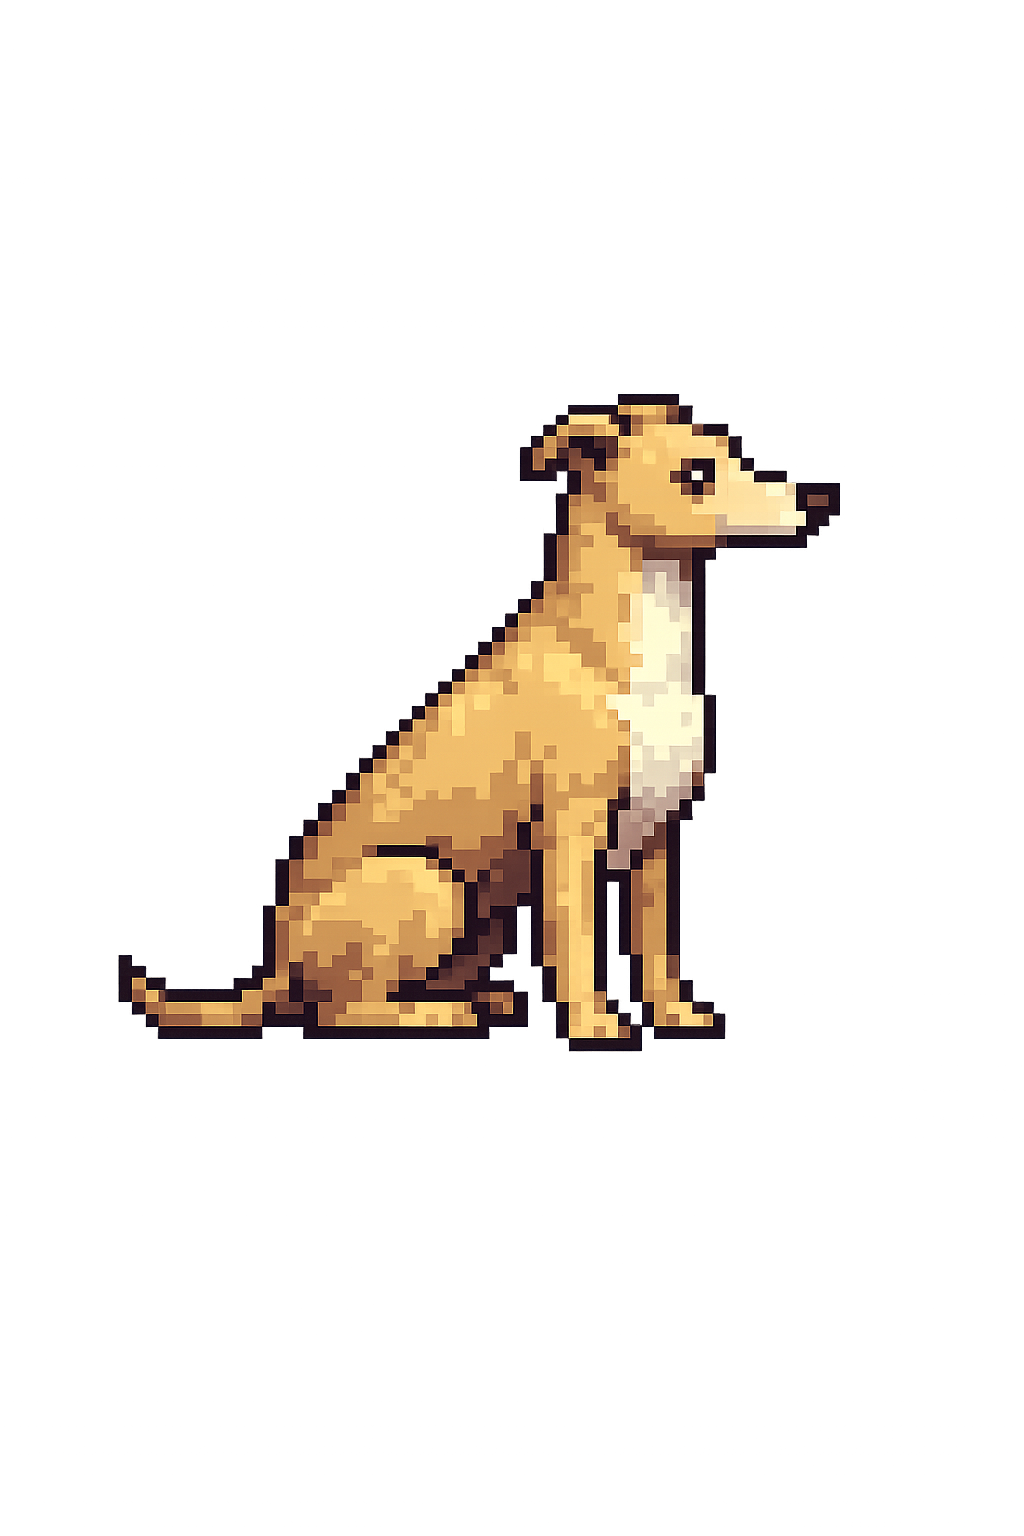
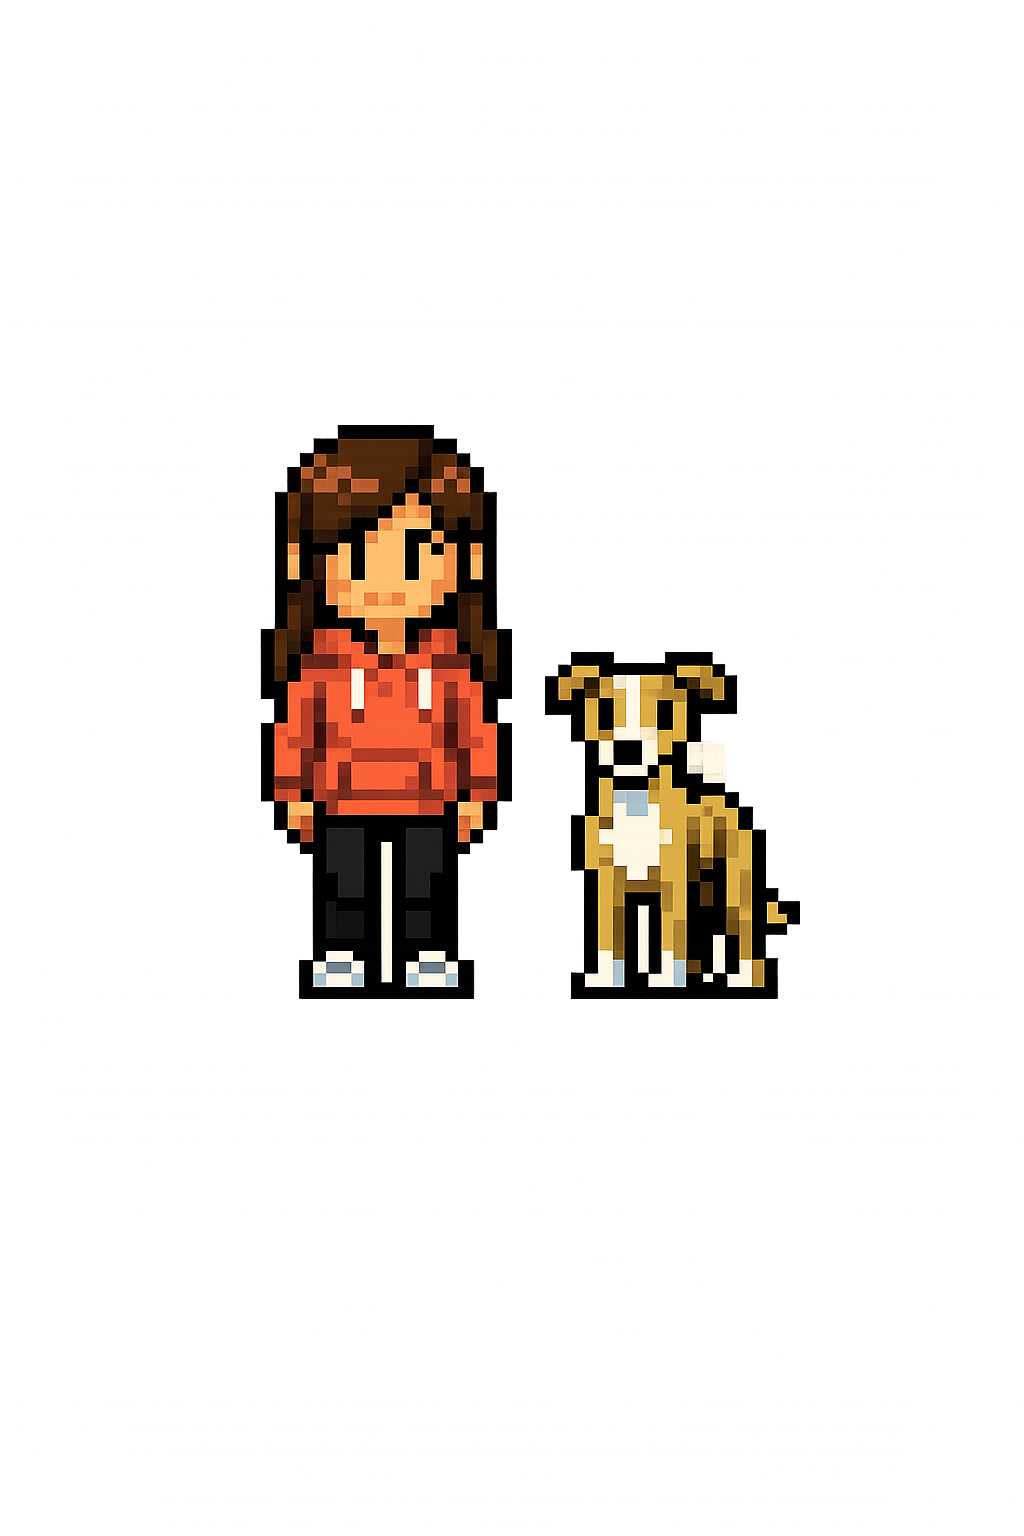
pawmap: bust assets v6, update llull portrait
Made-with: Cursor

Changed region(s): [[0.0938, 0.25, 0.8438, 0.6875]]

diff --git a/projects/pawmap/index.html b/projects/pawmap/index.html
@@ -175,6 +175,35 @@
     }
     #game-canvas:active { cursor: grabbing; }
 
+    /* Minimapa completo solo en escritorio: posición fija en la esquina del área de juego */
+    .minimap-wrap {
+      display: none;
+      position: absolute;
+      right: max(12px, env(safe-area-inset-right));
+      bottom: max(12px, env(safe-area-inset-bottom));
+      z-index: 8;
+      width: 144px;
+      height: 144px;
+      border: 2px solid rgba(253, 230, 138, 0.55);
+      border-radius: 8px;
+      background: rgba(10, 10, 26, 0.88);
+      box-shadow: 0 4px 18px rgba(0, 0, 0, 0.45);
+      overflow: hidden;
+      pointer-events: none;
+    }
+    .minimap-wrap canvas {
+      display: block;
+      width: 100%;
+      height: 100%;
+      image-rendering: pixelated;
+      image-rendering: crisp-edges;
+    }
+    @media (min-width: 900px) {
+      .minimap-wrap {
+        display: block;
+      }
+    }
+
     .near-prompt {
       position: absolute;
       left: 50%;
@@ -521,7 +550,6 @@
   <div class="screen-map hidden" id="screen-map">
     <div class="hud-bar" role="banner">
       <span>PAWMAP · ESPAÑA</span>
-      <span>CAMINA HACIA LA LUZ</span>
     </div>
     <div class="map-stage-wrap" id="map-stage-wrap">
       <div class="asset-hint" id="asset-hint" hidden></div>
@@ -537,6 +565,9 @@
         <span class="dpad-spacer"></span>
         <button type="button" data-dir="down" aria-label="Abajo">▼</button>
         <span class="dpad-spacer"></span>
+      </div>
+      <div class="minimap-wrap" id="minimap-wrap">
+        <canvas id="minimap-canvas" width="144" height="144" aria-label="Minimapa: posición en la península"></canvas>
       </div>
     </div>
 
@@ -611,13 +642,15 @@
   'use strict';
 
   var WORLD = 840;
-  /* Fallback if sprite not loaded; real frames = floor(sheetWidth/3) x floor(sheetHeight/4) */
+  /* Fallback si no hay sprite; hoja típica 1024×1536 → 3×4 celdas (341×384, última col. 342px) */
   var FRAME_W = 341;
-  var FRAME_H = 307;
+  var FRAME_H = 384;
   var COLS = 3;
   var ROWS = 4;
-  var DRAW_W = 35;
-  var DRAW_H = 40;
+  /* Sube el número cuando sustituyas assets en projects/pawmap/assets/ (mapa, sprite, pin, nubes, retrato). */
+  var PAWMAP_ASSETS_BUST = '6';
+  var DRAW_W = 70;
+  var DRAW_H = 80;
   var PROX = 40;
   var MOVE_SPEED = 115;
 
@@ -637,6 +670,10 @@
   var canvas = document.getElementById('game-canvas');
   var ctx = canvas.getContext('2d', { alpha: false });
   var mapWrap = document.getElementById('map-stage-wrap');
+  var minimapCanvas = document.getElementById('minimap-canvas');
+  var minimapCtx = minimapCanvas ? minimapCanvas.getContext('2d') : null;
+  var minimapMql = window.matchMedia('(min-width: 900px)');
+  var MINIMAP_SIZE = 144;
   var assetHint = document.getElementById('asset-hint');
   var nearPrompt = document.getElementById('near-prompt');
   var sheet = document.getElementById('info-sheet');
@@ -652,6 +689,8 @@
   var imgSpriteProcessed = null;
   var imgPinProcessed = null;
   var imgClouds = null;
+  /* Un solo frame copiado 1:1 desde la hoja; luego se escala. Evita mezcla con el frame vecino al dibujar. */
+  var spriteFrameScratch = null;
   var assetsMissing = [];
 
   function tryLoad(srcs, onOk, onFail) {
@@ -698,6 +737,24 @@
     return c;
   }
 
+  function keyNearWhiteTransparent(canvas) {
+    var t = canvas.getContext('2d');
+    try {
+      var px = t.getImageData(0, 0, canvas.width, canvas.height);
+      var d = px.data;
+      for (var i = 0; i < d.length; i += 4) {
+        var r = d[i];
+        var g = d[i + 1];
+        var b = d[i + 2];
+        if (r > 248 && g > 248 && b > 248) d[i + 3] = 0;
+      }
+      t.putImageData(px, 0, 0);
+    } catch (err) {
+      /* file:// u otro: sin clave */
+    }
+    return canvas;
+  }
+
   function imageUsesAlphaChannel(img) {
     var c = document.createElement('canvas');
     c.width = img.width;
@@ -718,7 +775,7 @@
 
   function processSpriteSheet(img) {
     if (imageUsesAlphaChannel(img)) return img;
-    return removeBlackBackground(img);
+    return keyNearWhiteTransparent(removeBlackBackground(img));
   }
 
   function processPin(img) {
@@ -882,19 +939,20 @@
       if (pending <= 0) cb();
     };
 
-    tryLoad(['assets/spain-map.png', 'assets/spain-map.jpg'], function (im) {
+    var v = '?v=' + PAWMAP_ASSETS_BUST;
+    tryLoad(['assets/spain-map.png' + v, 'assets/spain-map.jpg' + v], function (im) {
       imgMap = im;
       refreshSeaTextureFromMap(im);
       done();
     }, function () { assetsMissing.push('mapa (spain-map.png o .jpg)'); done(); });
 
-    tryLoad(['assets/sprite.png'], function (im) { imgSpriteProcessed = processSpriteSheet(im); done(); }, function () { assetsMissing.push('sprite.png'); done(); });
+    tryLoad(['assets/sprite.png' + v], function (im) { imgSpriteProcessed = processSpriteSheet(im); done(); }, function () { assetsMissing.push('sprite.png'); done(); });
 
-    tryLoad(['assets/paw-pin.png'], function (im) { imgPinProcessed = processPin(im); done(); }, function () { assetsMissing.push('paw-pin.png'); done(); });
+    tryLoad(['assets/paw-pin.png' + v], function (im) { imgPinProcessed = processPin(im); done(); }, function () { assetsMissing.push('paw-pin.png'); done(); });
 
-    tryLoad(['assets/clouds.png'], function (im) { imgClouds = im; done(); }, function () { assetsMissing.push('clouds.png'); done(); });
+    tryLoad(['assets/clouds.png' + v], function (im) { imgClouds = im; done(); }, function () { assetsMissing.push('clouds.png'); done(); });
 
-    tryLoad(['assets/llull-portrait.png'], function (im) {
+    tryLoad(['assets/llull-portrait.png' + v], function (im) {
       var wrap = document.getElementById('title-portrait-wrap');
       var ph = document.getElementById('title-portrait-placeholder');
       if (wrap && ph) {
@@ -1074,34 +1132,144 @@
 
   function spriteFrameDims() {
     var src = imgSpriteProcessed;
-    if (!src) return { fw: FRAME_W, fh: FRAME_H };
+    if (!src) return { fw: FRAME_W, fh: FRAME_H, sheetW: 0, sheetH: 0 };
     var w = (typeof src.naturalWidth === 'number' && src.naturalWidth > 0) ? src.naturalWidth : src.width;
     var h = (typeof src.naturalHeight === 'number' && src.naturalHeight > 0) ? src.naturalHeight : src.height;
-    if (!w || !h) return { fw: FRAME_W, fh: FRAME_H };
-    return { fw: Math.floor(w / COLS), fh: Math.floor(h / ROWS) };
+    if (!w || !h) return { fw: FRAME_W, fh: FRAME_H, sheetW: 0, sheetH: 0 };
+    return {
+      fw: Math.floor(w / COLS),
+      fh: Math.floor(h / ROWS),
+      sheetW: w,
+      sheetH: h
+    };
+  }
+
+  function spriteFrameSourceRect(col, row, dims) {
+    var fw = dims.fw;
+    var fh = dims.fh;
+    var w = dims.sheetW;
+    var h = dims.sheetH;
+    var sx = col * fw;
+    var sy = row * fh;
+    var sw = col === COLS - 1 ? w - sx : fw;
+    var sh = row === ROWS - 1 ? h - sy : fh;
+    /* Enteros estrictos: evita límites ambiguos en drawImage desde atlas. */
+    return {
+      sx: sx | 0,
+      sy: sy | 0,
+      sw: sw | 0,
+      sh: sh | 0
+    };
+  }
+
+  function syncMinimapAria() {
+    var wrap = document.getElementById('minimap-wrap');
+    if (!wrap) return;
+    wrap.setAttribute('aria-hidden', minimapMql.matches ? 'false' : 'true');
+  }
+  minimapMql.addEventListener('change', syncMinimapAria);
+  syncMinimapAria();
+
+  function drawMinimap() {
+    if (!minimapCanvas || !minimapCtx || !minimapMql.matches) return;
+    var sz = MINIMAP_SIZE;
+    var dpr = Math.min(window.devicePixelRatio || 1, 2);
+    var wpx = Math.floor(sz * dpr);
+    var hpx = Math.floor(sz * dpr);
+    if (minimapCanvas.width !== wpx || minimapCanvas.height !== hpx) {
+      minimapCanvas.width = wpx;
+      minimapCanvas.height = hpx;
+    }
+    var m = minimapCtx;
+    m.setTransform(1, 0, 0, 1, 0, 0);
+    m.clearRect(0, 0, wpx, hpx);
+    m.setTransform(dpr, 0, 0, dpr, 0, 0);
+    m.imageSmoothingEnabled = false;
+    if (imgMap) {
+      /* Mismo criterio que el mapa grande: imagen completa escalada a WORLD (5-arg allí = destino WORLD×WORLD). */
+      var iw = imgMap.naturalWidth || imgMap.width;
+      var ih = imgMap.naturalHeight || imgMap.height;
+      m.drawImage(imgMap, 0, 0, iw, ih, 0, 0, sz, sz);
+    } else {
+      m.fillStyle = seaFillColor;
+      m.fillRect(0, 0, sz, sz);
+      m.fillStyle = '#2d6a3a';
+      m.beginPath();
+      m.ellipse(sz * 0.52, sz * 0.48, sz * 0.38, sz * 0.22, 0.1, 0, Math.PI * 2);
+      m.fill();
+    }
+
+    /* Palito + esfera blanca arriba; el pie del palito marca el punto en el mapa. */
+    var pinScale = Math.max(0.82, Math.min(1.12, sz / 144));
+    SPOTS.forEach(function (s) {
+      var tipX = (s.wx / WORLD) * sz;
+      var tipY = (s.wy / WORLD) * sz;
+      var h = 12 * pinScale;
+      var r = 3.8 * pinScale;
+      var yTop = tipY - h;
+      var cy = yTop - r;
+      m.beginPath();
+      m.moveTo(tipX, tipY);
+      m.lineTo(tipX, yTop);
+      m.strokeStyle = '#3d2f22';
+      m.lineWidth = Math.max(1.25, 1.5 * pinScale);
+      m.lineCap = 'round';
+      m.stroke();
+      m.beginPath();
+      m.arc(tipX, cy, r, 0, Math.PI * 2);
+      m.fillStyle = '#ffffff';
+      m.fill();
+      m.strokeStyle = 'rgba(0, 0, 0, 0.35)';
+      m.lineWidth = 0.75;
+      m.stroke();
+    });
+
+    /* Jugador encima: centro del sprite en el mundo. */
+    var pinX = player.x;
+    var pinY = player.y - DRAW_H / 2;
+    var mx = (pinX / WORLD) * sz;
+    var my = (pinY / WORLD) * sz;
+    mx = Math.max(4, Math.min(sz - 4, mx));
+    my = Math.max(4, Math.min(sz - 4, my));
+    m.fillStyle = '#ff2d78';
+    m.beginPath();
+    m.arc(mx, my, 4, 0, Math.PI * 2);
+    m.fill();
+    m.strokeStyle = 'rgba(255, 255, 255, 0.95)';
+    m.lineWidth = 1.25;
+    m.stroke();
   }
 
   function drawPlayer(dt) {
     var row = player.dir;
     var f = Math.floor(animT / 140) % 3;
     var dims = spriteFrameDims();
-    var fw = dims.fw;
-    var fh = dims.fh;
-    var sx = f * fw;
-    var sy = row * fh;
+    var r = spriteFrameSourceRect(f, row, dims);
     if (keys.up || keys.down || keys.left || keys.right) animT += dt;
     else animT = 0;
 
-    var dx = player.x - DRAW_W / 2;
-    var dy = player.y - DRAW_H;
+    var dx = Math.round(player.x - DRAW_W / 2);
+    var dy = Math.round(player.y - DRAW_H);
 
     if (imgSpriteProcessed) {
-      ctx.drawImage(imgSpriteProcessed, sx, sy, fw, fh, dx, dy, DRAW_W, DRAW_H);
+      var sw = r.sw;
+      var sh = r.sh;
+      if (!spriteFrameScratch) spriteFrameScratch = document.createElement('canvas');
+      if (spriteFrameScratch.width !== sw || spriteFrameScratch.height !== sh) {
+        spriteFrameScratch.width = sw;
+        spriteFrameScratch.height = sh;
+      }
+      var sctx = spriteFrameScratch.getContext('2d', { alpha: true });
+      sctx.imageSmoothingEnabled = false;
+      sctx.clearRect(0, 0, sw, sh);
+      sctx.drawImage(imgSpriteProcessed, r.sx, r.sy, sw, sh, 0, 0, sw, sh);
+      ctx.imageSmoothingEnabled = false;
+      ctx.drawImage(spriteFrameScratch, 0, 0, sw, sh, dx, dy, DRAW_W, DRAW_H);
     } else {
       ctx.fillStyle = '#00f0ff';
       ctx.fillRect(dx, dy, DRAW_W, DRAW_H);
       ctx.fillStyle = '#ff2d78';
-      ctx.fillRect(dx + 8, dy + 10, 8, 8);
+      ctx.fillRect(dx + 16, dy + 20, 16, 16);
     }
   }
 
@@ -1119,8 +1287,8 @@
     if (vx && vy) { vx *= 0.707; vy *= 0.707; }
     player.x += vx * MOVE_SPEED * (dt / 1000);
     player.y += vy * MOVE_SPEED * (dt / 1000);
-    player.x = Math.max(20, Math.min(WORLD - 20, player.x));
-    player.y = Math.max(20, Math.min(WORLD - 20, player.y));
+    player.x = Math.max(20 + DRAW_W / 2, Math.min(WORLD - 20 - DRAW_W / 2, player.x));
+    player.y = Math.max(20 + DRAW_H, Math.min(WORLD - 20, player.y));
 
     if (vy < 0) player.dir = 1;
     else if (vy > 0) player.dir = 0;
@@ -1221,6 +1389,8 @@
         closeSheet();
       }
     }
+
+    drawMinimap();
 
     requestAnimationFrame(loop);
   }
